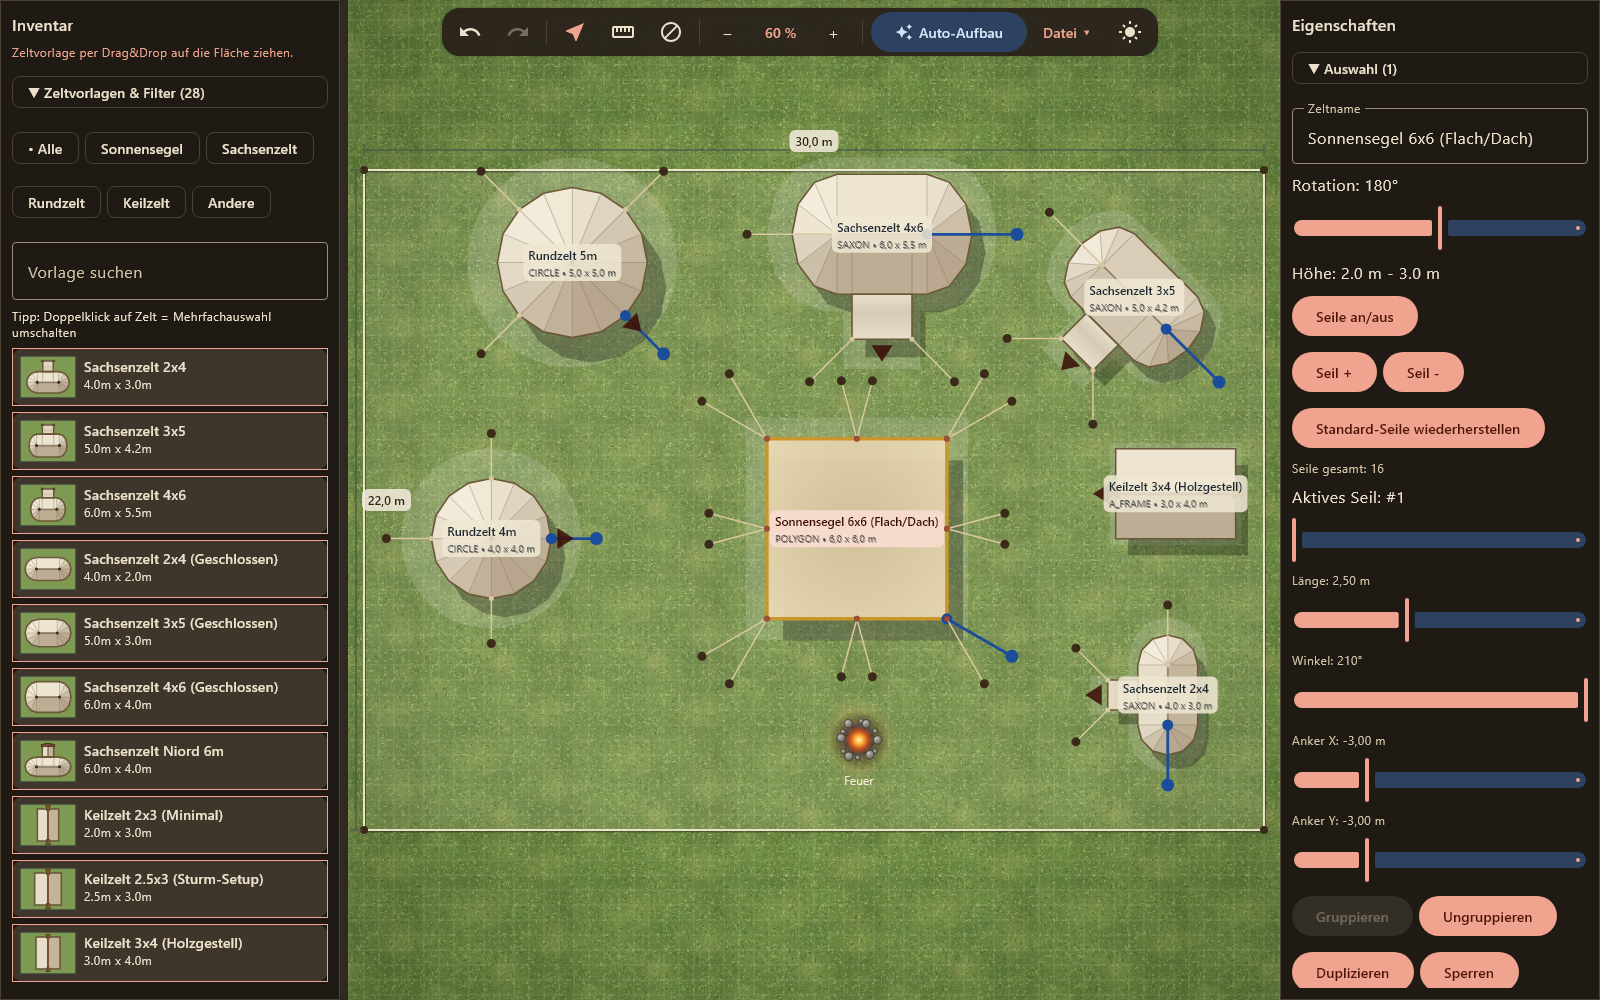
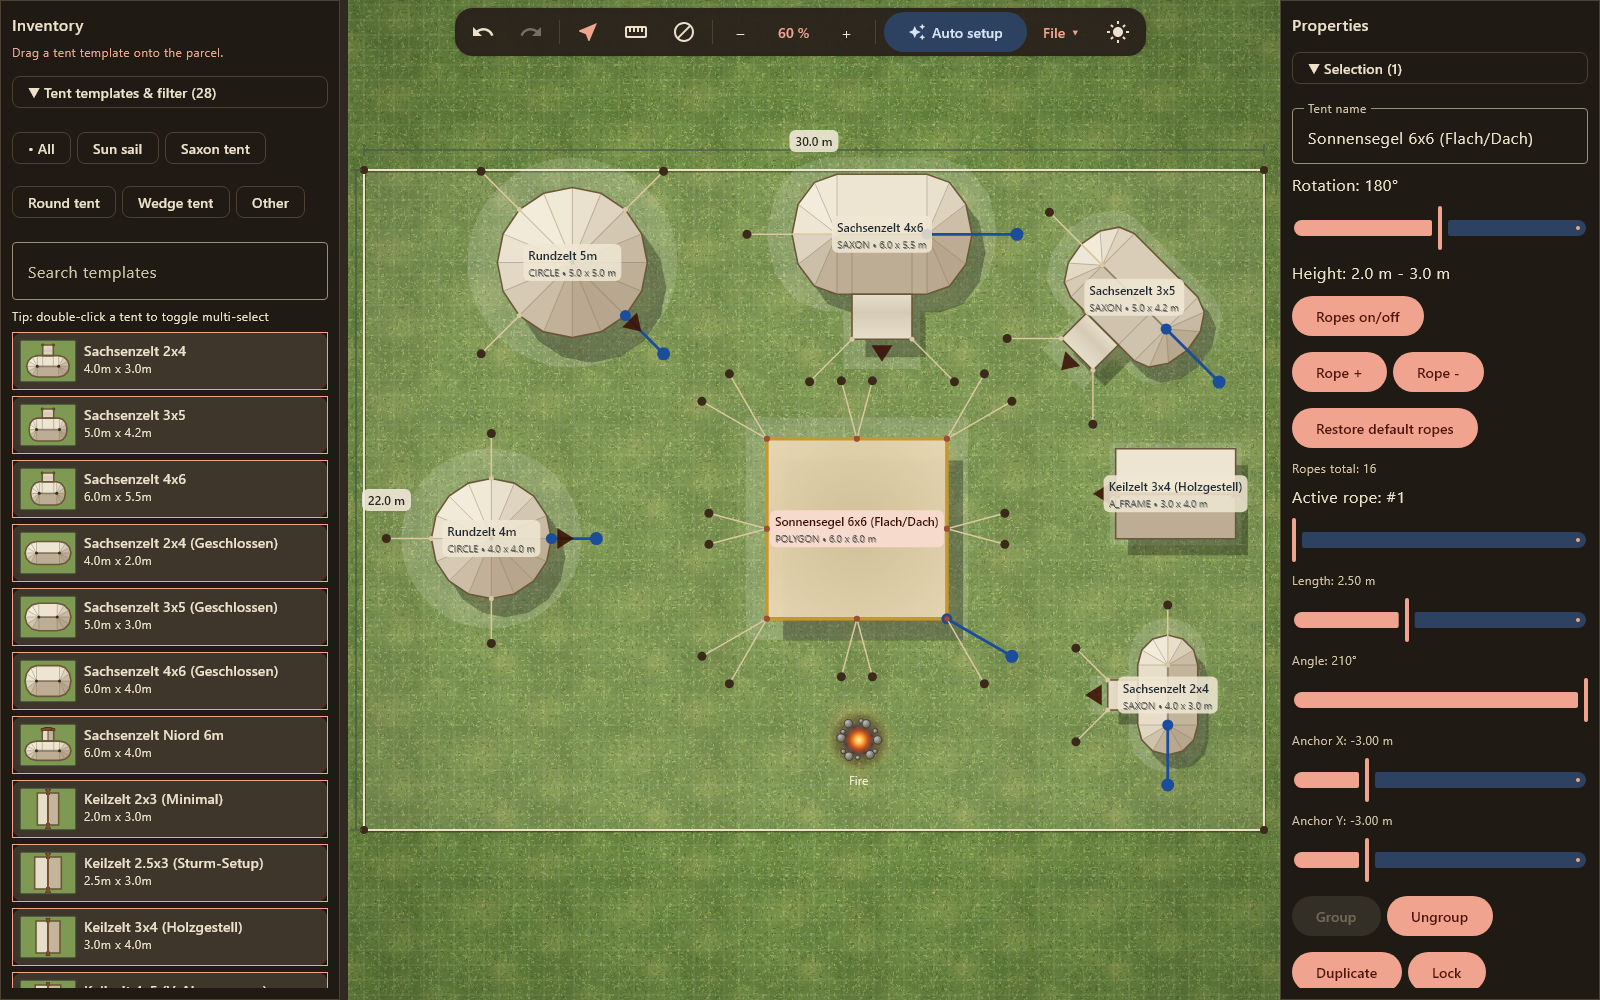
Render README screenshots in English
The README is in English, so the screenshot test now renders with the
English locale whatever the machine is set to, and the sample camp uses
English labels. Android shots retaken with the new sample camp.

diff --git a/composeApp/src/jvmTest/kotlin/de/voculupo/historicalcamplayout/ReadmeScreenshots.kt b/composeApp/src/jvmTest/kotlin/de/voculupo/historicalcamplayout/ReadmeScreenshots.kt
@@ -14,6 +14,7 @@ import lagerplaner.composeapp.generated.resources.auto_setup_short
 import org.jetbrains.compose.resources.getString
 import org.junit.Assume.assumeTrue
 import java.io.File
+import java.util.Locale
 import javax.imageio.ImageIO
 import kotlin.test.Test
 
@@ -27,7 +28,7 @@ class ReadmeScreenshots {
 
     private fun sampleCamp(): PlannerViewModel =
         PlannerViewModel(InMemoryStorage()).apply {
-            setProjectName("Sommerlager")
+            setProjectName("Summer camp")
             autoSetup(SAMPLE_REQUEST)
             setZoomLive(ZOOM)
         }
@@ -45,12 +46,19 @@ class ReadmeScreenshots {
     ) {
         assumeTrue("SCREENSHOT_DIR not set", outDir != null)
         outDir!!.mkdirs()
-        runDesktopComposeUiTest(width = width, height = height) {
-            val vm = sampleCamp()
-            setContent { App(viewModel = vm) }
-            waitForIdle()
-            action(vm)
-            save(name)
+        // README is in English, so render the English strings whatever the machine's locale.
+        val systemLocale = Locale.getDefault()
+        Locale.setDefault(Locale.ENGLISH)
+        try {
+            runDesktopComposeUiTest(width = width, height = height) {
+                val vm = sampleCamp()
+                setContent { App(viewModel = vm) }
+                waitForIdle()
+                action(vm)
+                save(name)
+            }
+        } finally {
+            Locale.setDefault(systemLocale)
         }
     }
 
@@ -90,7 +98,7 @@ class ReadmeScreenshots {
                 tentPresetIds = listOf("saxon_4x6", "round_5", "saxon_3x5", "a_tent_3x4_frame", "round_4", "saxon_2x4"),
                 sailPresetIds = listOf("sun_sail_6x6_flat"),
                 visitorSide = VisitorSide.BOTTOM,
-                freeAreas = listOf(FreeArea(FreeAreaKind.FIRE, "Feuer", 2f, 2f)),
+                freeAreas = listOf(FreeArea(FreeAreaKind.FIRE, "Fire", 2f, 2f)),
             )
     }
 }
